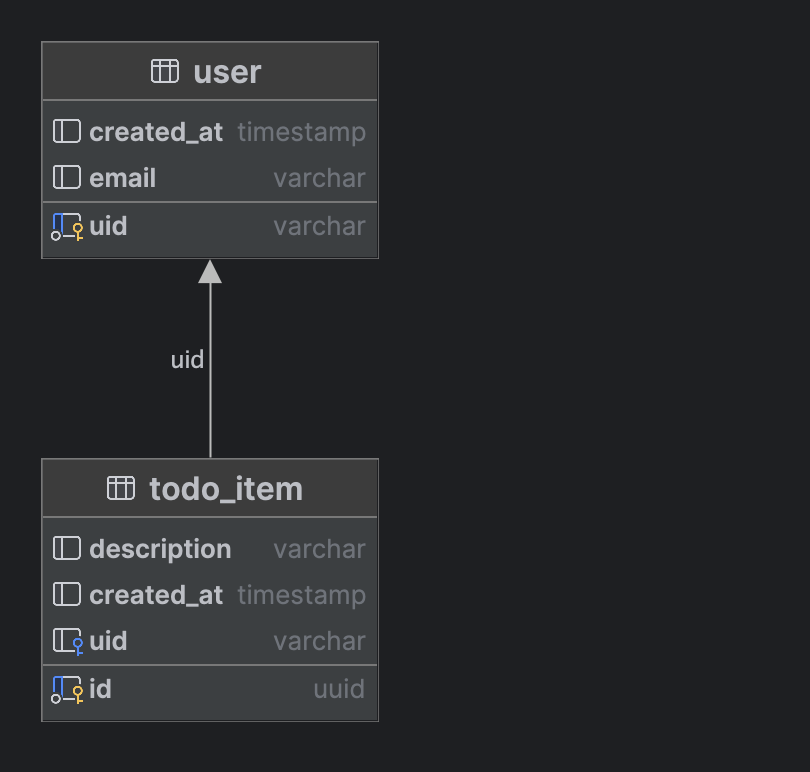
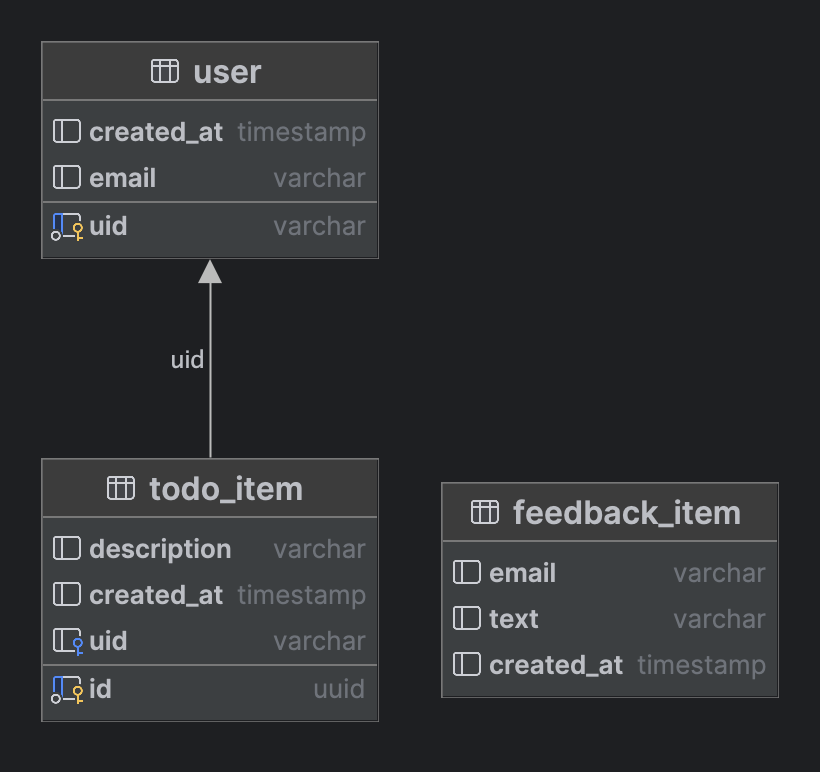
chore: update README

diff --git a/README.md b/README.md
@@ -4,35 +4,36 @@ Krivenko Andrei
 
 [swagger](https://web-confleux.onrender.com/swagger/index.html)
 
-Entities:
+DB:
 
 ```sql
-create table "user"
-(
-    uid        varchar not null
-        constraint user_pk
-            primary key,
-    created_at timestamp default CURRENT_TIMESTAMP,
-    email      varchar
-);
+feedback_item: table
+    + columns
+        email: varchar
+        text: varchar
+        created_at: timestamp default CURRENT_TIMESTAMP
+todo_item: table
+    + columns
+        description: varchar
+        id: uuid NN
+        created_at: timestamp default CURRENT_TIMESTAMP
+        uid: varchar
+    + indices
+        todo_item_pk: unique (id)
+    + keys
+        todo_item_pk: PK (id)
+    + foreign-keys
+        todo_item_user_uid_fk: foreign key (uid) -> user[.user_pk] (uid)
+user: table
+    + columns
+        uid: varchar NN
+        created_at: timestamp default CURRENT_TIMESTAMP
+        email: varchar
+    + indices
+        user_pk: unique (uid)
+    + keys
+        user_pk: PK (uid)
 
-alter table "user"
-    owner to web_confleux_db_user;
-
-create table todo_item
-(
-    description varchar,
-    id          uuid not null
-        constraint todo_item_pk
-            primary key,
-    created_at  timestamp default CURRENT_TIMESTAMP,
-    uid         varchar
-        constraint todo_item_user_uid_fk
-            references "user"
-);
-
-alter table todo_item
-    owner to web_confleux_db_user;
 ```
 
 ![diagram](assets/img.png)
